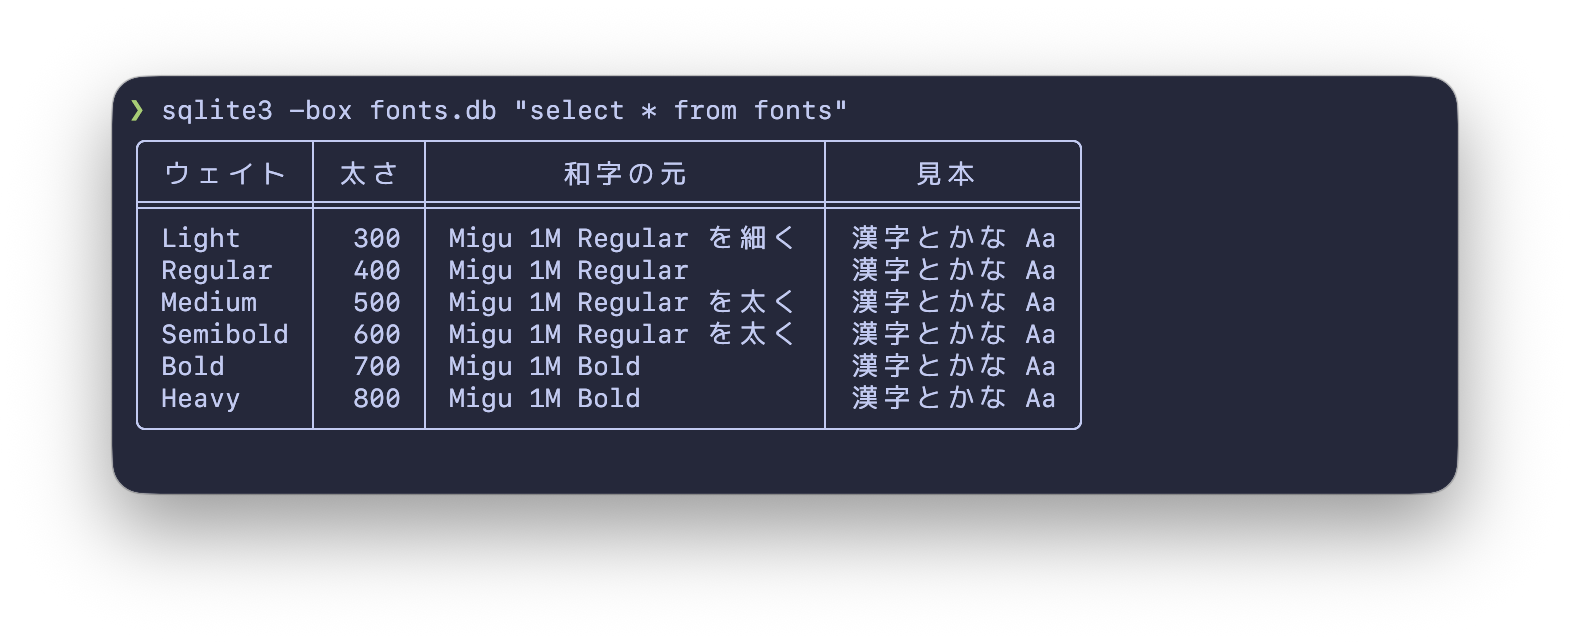
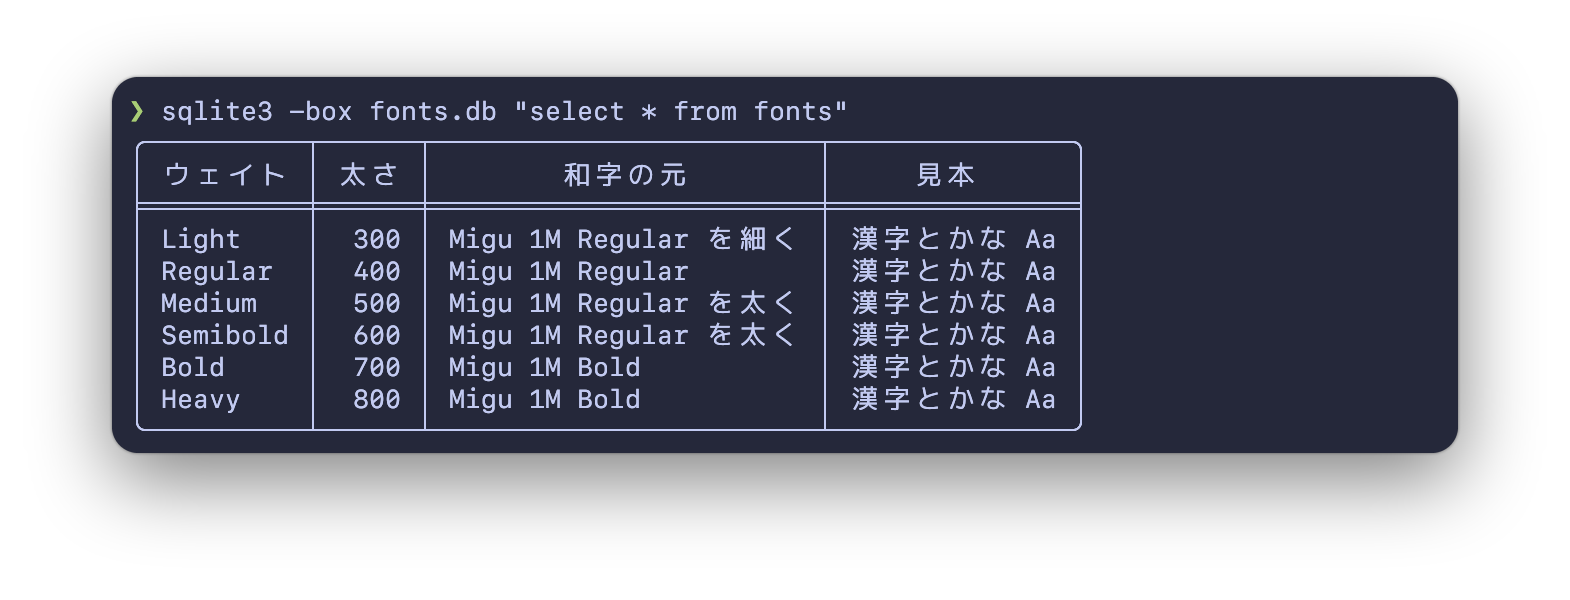
docs: say that SF Mono Square is for macOS only, and fit the gallery to its content
- Say that SF Mono Square is for macOS only: the license of SF Mono does not allow it on any other
  operating system.
- Drop the words taken from the release notes ("just as before", "Now, ... v3"), which say little in
  README.
- The windows of the gallery had blank rows at the bottom: a newline after the output, the line tig
  keeps for its messages, and the height of a window that is not a whole number of rows.  They are
  taken without the shadow, cut to the same margin at the bottom as at the top, and given the
  rounded corners and the shadow again.

Changed region(s): [[0.0624, 0.09, 0.9363, 0.72], [0.0624, 0.75, 0.9363, 0.78]]

diff --git a/README.md b/README.md
@@ -6,7 +6,10 @@
 
 **SF Mono** is a font from Apple, that is clear, easy to read, and suitable for programming.  **SF Mono Square** is based on **SF Mono**, and added glyphs for Japanese & patched for [Nerd Fonts][].
 
-_Now, SF Mono Square v3 has completely the same codepoints as Nerd Fonts v3's ones._
+SF Mono Square has the same codepoints as Nerd Fonts v3.
+
+SF Mono Square is for macOS only.  The license of SF Mono does not allow it on any other operating
+system, and the formula builds the fonts on your Mac from the SF Mono it downloads from Apple.
 
 [Nerd Fonts]: https://github.com/ryanoasis/nerd-fonts
 
@@ -23,9 +26,9 @@ Heavy — each with its italic.  Migu 1M has only Regular and Bold, so the Japan
 other weights are made from them: Light, Medium and Semibold by thinning or thickening the strokes
 of Regular, and Heavy uses those of Bold as they are.
 
-Regular, Bold and their italics make the family "SF Mono Square" just as before.  The other weights
-join it in the typographic family (name IDs 16 & 17); apps that do not read them list such a weight
-as a family of its own, such as "SF Mono Square Light".
+Regular, Bold and their italics make the family "SF Mono Square".  The other weights join it in the
+typographic family (name IDs 16 & 17); apps that do not read them list such a weight as a family of
+its own, such as "SF Mono Square Light".
 
 ![SF Mono Square in Light, Regular, Medium, Semibold, Bold and Heavy, upright and italic](.github/images/readme-weights.png)
 
